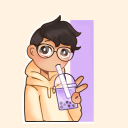
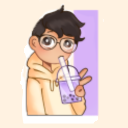
need to add final touches

diff --git a/styles/main.css b/styles/main.css
@@ -1,7 +1,7 @@
 body {
     padding: 0;
     margin: 0;
-    background-image: url(https://i.imgur.com/vKSzFo6.jpg);
+    background-image: url(https://i.imgur.com/6s975E1.jpg);
     background-size: cover;
     /* overflow-y: scroll; */
   }
@@ -15,6 +15,7 @@ display: flex;
 .main-paragraph {
   width: 50%;
   margin: 20px;
+  color: aliceblue;
 }
 
 .main-paragraph p{
@@ -22,9 +23,11 @@ display: flex;
   position: relative;
   font-size: xx-large;
   width: 50%;
-  top: 30%;
+  top: 35%;
   left: 30%;
-  
+  animation: fadeInAnimation ease 3s;
+  animation-iteration-count: 1;
+  animation-fill-mode: forwards;
 }
 
 .main-pic {
@@ -46,13 +49,22 @@ display: flex;
 .main-pic img{
   position: relative;
   left: 25%;
-  top: 3%;
+  top: 5%;
   width: 100%;
   height: 100%;
 }
 
-.about-me-button {
-  position: relative;
-  right: 50%;
-
+.about-me-button{
+  position: absolute;
+  left: 25%;
+  bottom: 35%;
+  transition: all .15s ease-in;
+  animation: fadeInAnimation ease 3s;
+  animation-iteration-count: 1;
+  animation-fill-mode: forwards;
 }
+
+
+
+
+

diff --git a/index.html b/index.html
@@ -59,12 +59,13 @@
     <div class="main-paragraph">
       <p>My name is Lawrence and I'm a high school student working to become a junior developer.</p>
     </div>
+     <div class="about-me-button">
+      <button type="button" class="btn btn-primary">About Me</button>
+    </div> 
     <div class="main-pic">
       <img src='https://i.imgur.com/USq3Bq5.jpg' />
     </div>
-    <div class="about-me-button">
-      <button type="button">Click Me!</button>
-    </div>
+    
   </section>
 
   <!--animation-->
